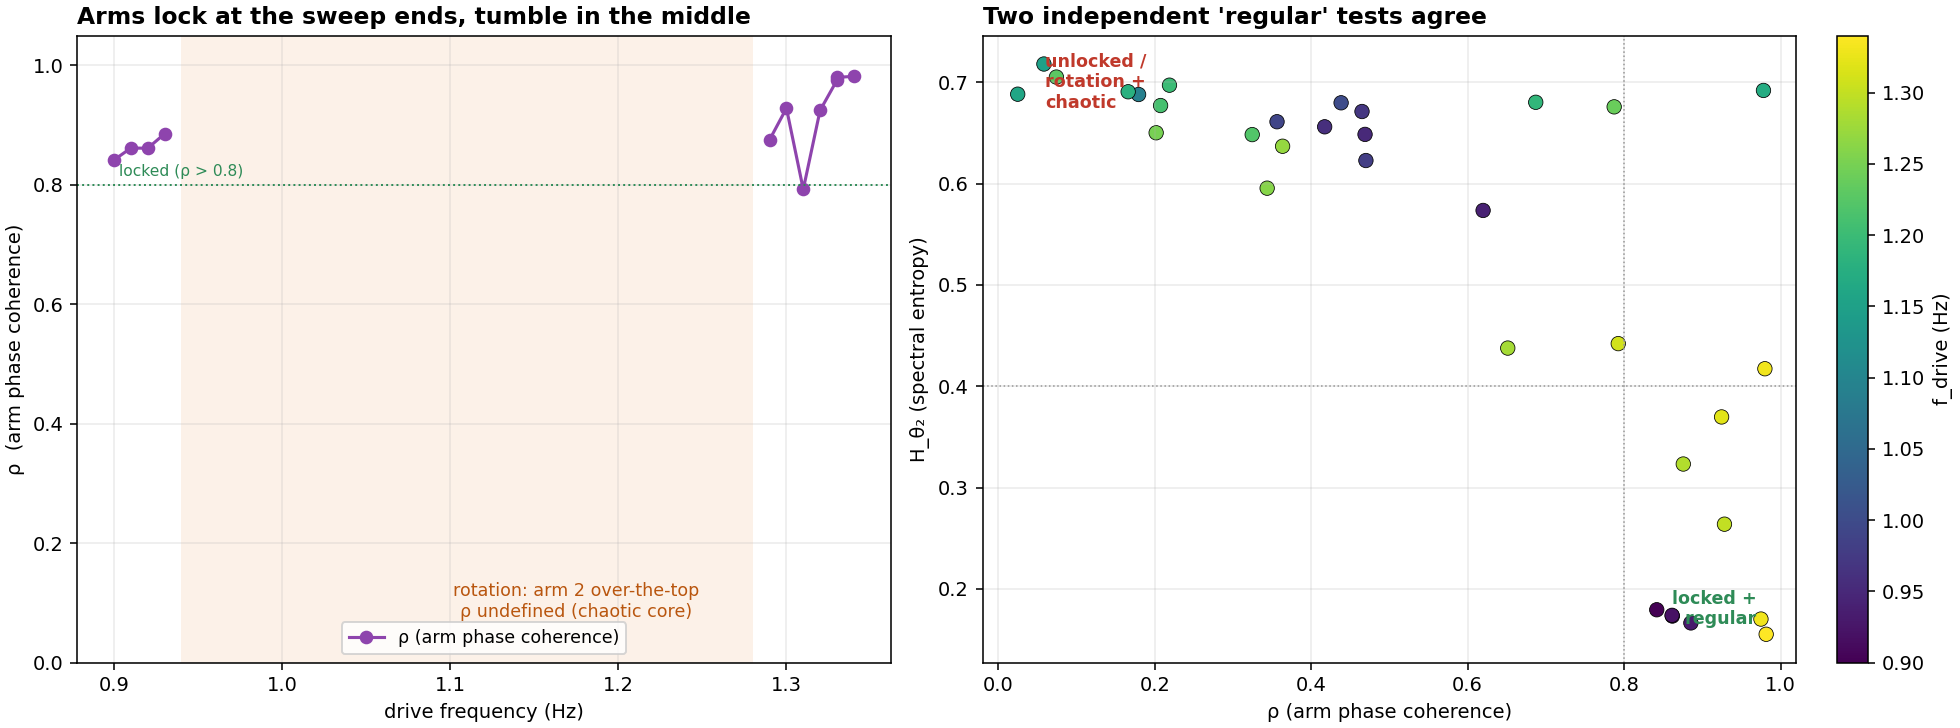
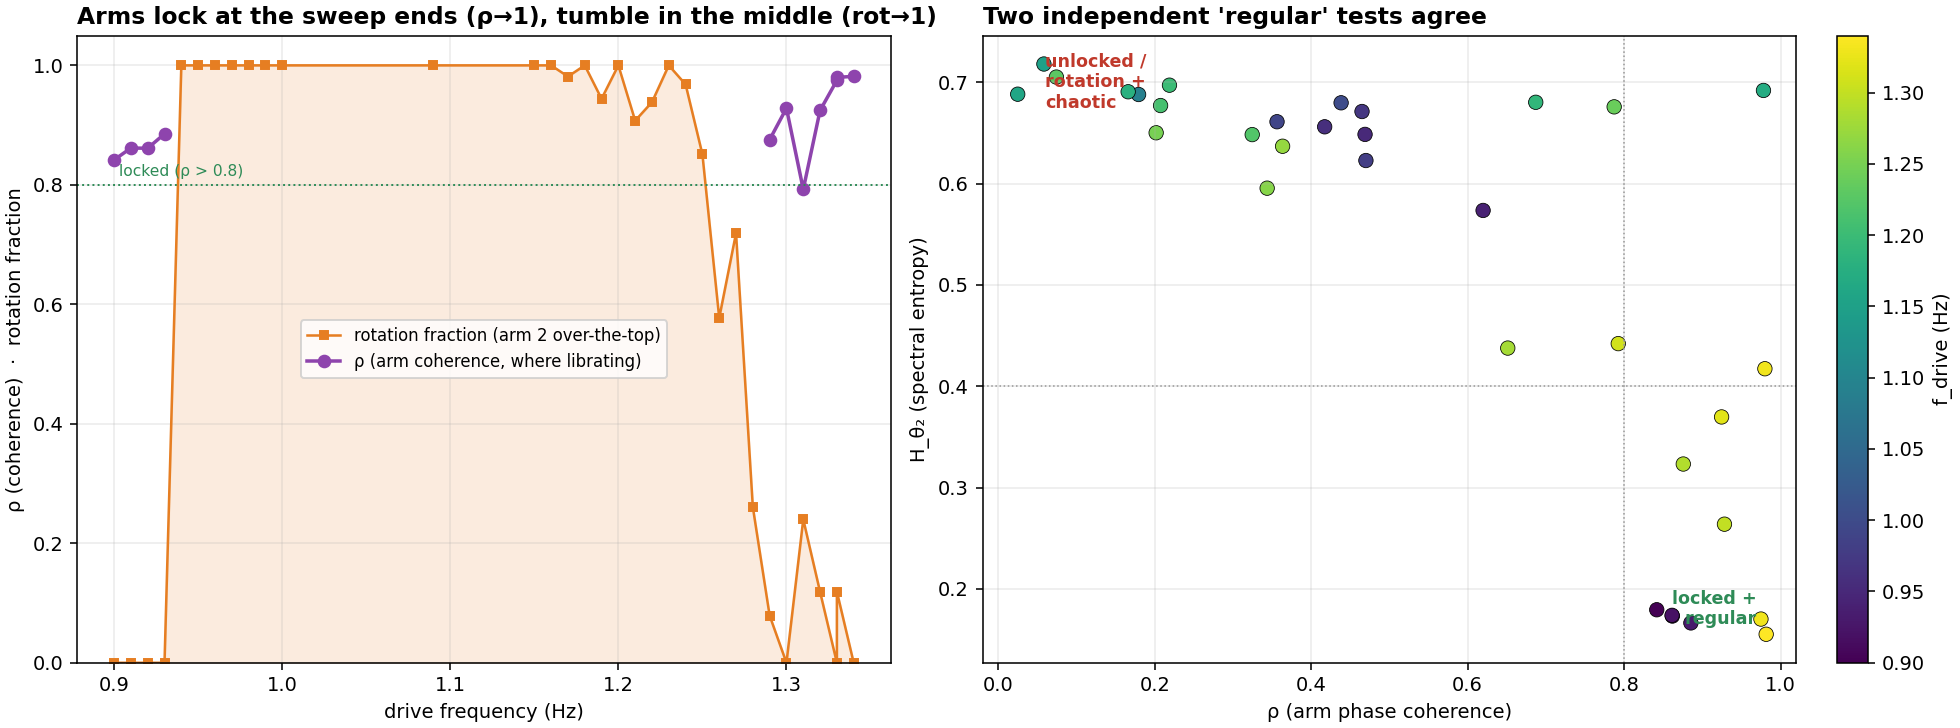
analysis: fill phase-locking left panel with rotation fraction
Blanking ρ across the rotation band left 24/33 clips showing nothing — the
panel read as empty. Add the rotation fraction (arm 2 over-the-top, defined for
every clip) as a complementary [0,1] curve: it plateaus at 1.0 across the
chaotic core exactly where ρ drops out, and ~0 at the locked ends. The chaos
signature now fills the middle instead of a blank band.

diff --git a/scripts/analysis/phase_locking.py b/scripts/analysis/phase_locking.py
@@ -365,25 +365,24 @@ def run_sweep(voltage, transient_s):
 
     fig, (ax1, ax2) = plt.subplots(1, 2, figsize=(14, 5.2), constrained_layout=True)
 
-    # LEFT — arm coherence vs frequency. ρ is meaningful only where the arms
-    # librate; in the rotation (chaotic) band the phase angle degenerates, so
-    # we blank ρ there and shade the band instead. One axis, one curve.
-    if rotation.any():
-        ax1.axvspan(f[rotation].min(), f[rotation].max(), color="#e67e22",
-                    alpha=0.10, lw=0)
-        ax1.text(float(np.median(f[rotation])), 0.07,
-                 "rotation: arm 2 over-the-top\nρ undefined (chaotic core)",
-                 ha="center", va="bottom", fontsize=9, color="#b9560f")
-    ax1.plot(f, rho_valid, "o-", color="#8e44ad", lw=1.6, ms=6,
-             label="ρ (arm phase coherence)")
+    # LEFT — two complementary [0,1] curves vs frequency. ρ (arm coherence) is
+    # meaningful only where the arms librate, so it is blanked across the
+    # rotation band; the rotation FRACTION (arm 2 over-the-top) is defined
+    # everywhere and fills that band — it IS the chaos signature. Together:
+    # ρ→1 at the ends (locked), rotation→1 in the middle (tumbling).
+    ax1.fill_between(f, 0, rotf, color="#e67e22", alpha=0.15, zorder=0)
+    ax1.plot(f, rotf, "s-", color="#e67e22", lw=1.3, ms=4,
+             label="rotation fraction (arm 2 over-the-top)")
+    ax1.plot(f, rho_valid, "o-", color="#8e44ad", lw=1.8, ms=6,
+             label="ρ (arm coherence, where librating)")
     ax1.axhline(TH.PLOCK_RHO_LOCK, color="#2e8b57", ls=":", lw=1.0)
     ax1.text(f.min(), TH.PLOCK_RHO_LOCK + 0.01, f" locked (ρ > {TH.PLOCK_RHO_LOCK})",
              color="#2e8b57", fontsize=8, va="bottom")
     ax1.set_xlabel("drive frequency (Hz)")
-    ax1.set_ylabel("ρ  (arm phase coherence)")
+    ax1.set_ylabel("ρ (coherence)  ·  rotation fraction")
     ax1.set_ylim(0, 1.05); ax1.grid(alpha=0.25)
-    ax1.legend(loc="lower center", fontsize=9)
-    ax1.set_title("Arms lock at the sweep ends, tumble in the middle",
+    ax1.legend(loc="center", fontsize=8.5)
+    ax1.set_title("Arms lock at the sweep ends (ρ→1), tumble in the middle (rot→1)",
                   loc="left", fontweight="bold")
 
     # RIGHT — do the two independent 'regular' tests agree? ρ (phase-lock) vs
